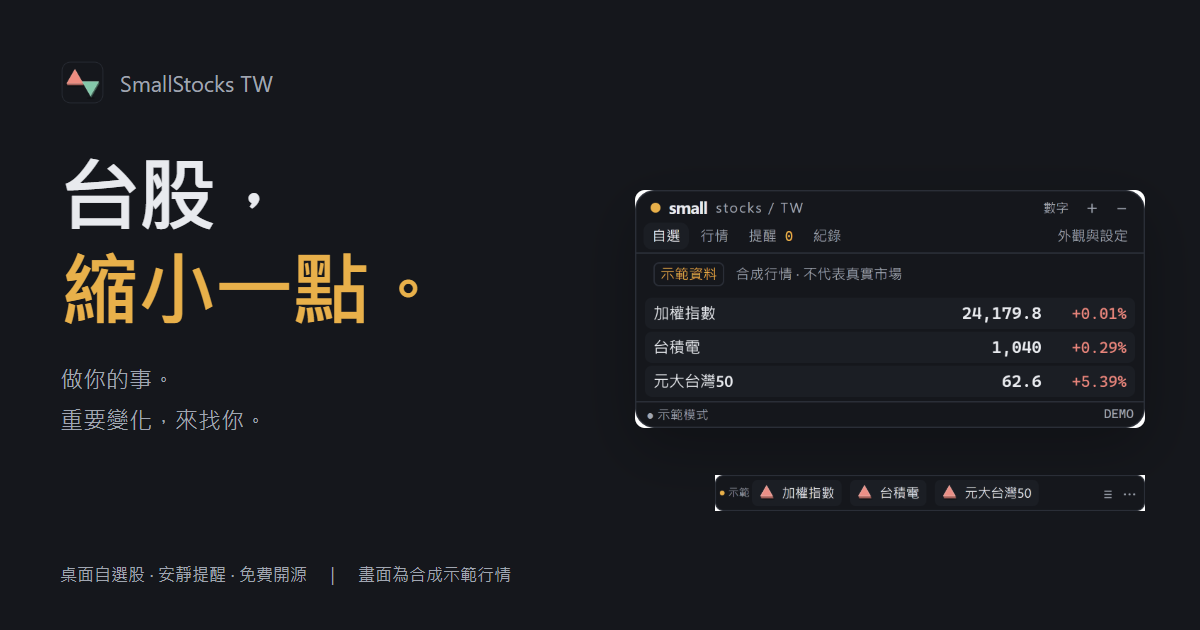
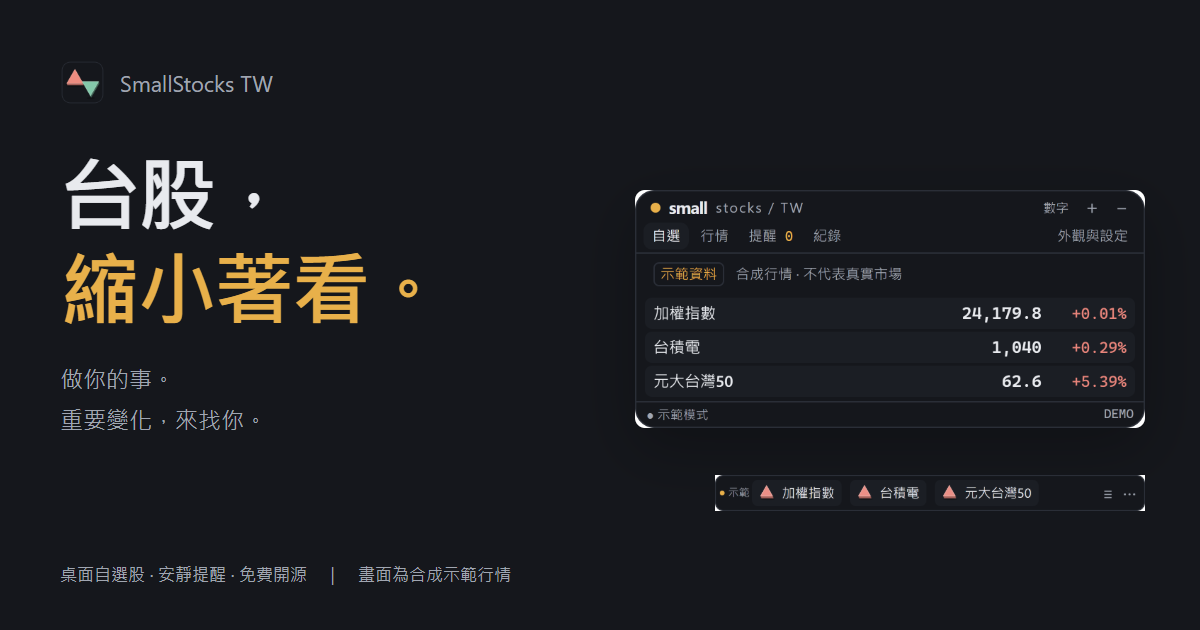
Keep the site in the public repo like Basesmall and SmalLoL; native Mac captures
- Site source, screenshot and check scripts live in this repo (site/).
  Deploy config stays in the private workspace repository.
- Tagline: 台股，縮小著看。
- Add the buy-me-a-coffee line (site FAQ and footer, README, FUNDING.yml).
- Replace the browser-rendered Mac previews with native window captures from
  an Intel Mac (demo data) and update captions and README wording.

Changed region(s): [[0.185, 0.3921, 0.3083, 0.5127]]

diff --git a/site/index.html b/site/index.html
@@ -4,14 +4,14 @@
     <meta charset="utf-8" />
     <meta name="viewport" content="width=device-width,initial-scale=1" />
     <meta name="theme-color" content="#15171c" />
-    <title>SmallStocks TW｜台股，縮小一點。</title>
+    <title>SmallStocks TW｜台股，縮小著看。</title>
     <meta
       name="description"
       content="讓幾檔自選股，安靜待在螢幕角落。SmallStocks TW 是免費開源的台股桌面小工具，提供數字、單行走勢、極簡棋子、終端機與文字外觀，以及自訂事件提醒和選配 MCP。"
     />
     <meta property="og:type" content="website" />
     <meta property="og:locale" content="zh_TW" />
-    <meta property="og:title" content="SmallStocks TW｜台股，縮小一點。" />
+    <meta property="og:title" content="SmallStocks TW｜台股，縮小著看。" />
     <meta
       property="og:description"
       content="做你的事，重要變化來找你。桌面自選股、安靜提醒，還有適合不同工作的低調外觀。"
@@ -69,7 +69,7 @@
           <p class="eyebrow">
             <span class="gold-dot"></span> small 系列的台股桌面小工具
           </p>
-          <h1 id="headline">台股，<br />縮小一點。</h1>
+          <h1 id="headline">台股，<br />縮小著看。</h1>
           <p class="lead">
             讓幾檔自選股，安靜待在螢幕角落。<br
               class="desktop-break"
@@ -214,8 +214,8 @@
           </p>
         </div>
         <p class="fine">
-          畫面為合成示範行情。Mac 外觀是 UI
-          預覽，尚無原生試用包或實機驗證。兩種外觀都不會執行系統指令或修改其他文件。
+          畫面為合成示範行情。Mac 畫面是 Intel Mac
+          上的原生視窗截圖，尚無 Mac 試用包，真實行情與長時間使用尚未驗證。兩種外觀都不會執行系統指令或修改其他文件。
         </p>
       </section>
 
@@ -485,8 +485,7 @@
           >
           <p class="fine">
             需要 WebView2；執行檔尚未簽章，Windows
-            或公司裝置管理可能攔截。尚無自動更新。Mac 目前只有差異化 UI
-            預覽，未開放原生下載。
+            或公司裝置管理可能攔截。尚無自動更新。Mac 尚無試用包，未開放下載。
           </p>
           <p class="fine">
             網站只介紹產品，不提供即時行情；不需要提供券商帳號。
@@ -538,6 +537,12 @@
               程式免費開源，不需帳號，也沒有分析追蹤。行情資料受各來源條件限制，不包含在程式授權內。網站不放分析工具或追蹤
               Cookie；為取得最新下載連結，會向 GitHub 查詢公開版本資訊。
             </p>
+            <p>
+              SmallStocks TW 免費，沒有廣告也沒有付費功能。如果它在上班時陪著你，歡迎<a
+                href="https://buymeacoffee.com/zaious"
+                >請我喝杯咖啡</a
+              >；贊助不會解鎖任何功能，每個人用到的都一樣。
+            </p>
           </details>
         </div>
       </section>
@@ -549,7 +554,7 @@
             >SmallStocks TW</span
           ></a
         >
-        <p>台股，縮小一點。</p>
+        <p>台股，縮小著看。</p>
         <p>
           由 <a href="https://zaious.dev/">Zaious</a> 與<a
             href="https://studio.chroniclecore.com"
@@ -571,6 +576,8 @@
           >
           ·
           <a href="https://github.com/Zaious/smallstocks-tw/issues">回報問題</a>
+          ·
+          <a href="https://buymeacoffee.com/zaious">請我喝杯咖啡</a>
         </p>
         <p class="fine">
           獨立開源專案，與證交所、櫃買中心、Yahoo

diff --git a/site/site.js b/site/site.js
@@ -79,10 +79,10 @@
     const mac = platform === "mac";
     const captions = {
       terminal: mac
-        ? "Mac 終端機／zsh 外觀預覽，尚未原生實測。"
+        ? "Mac 終端機／zsh 外觀，Intel Mac 原生視窗截圖（示範資料）。"
         : "Windows Terminal／PowerShell 外觀，等寬表格清楚對齊。",
       text: mac
-        ? "TextEdit 純文字外觀預覽，尚未原生實測。"
+        ? "TextEdit 純文字外觀，Intel Mac 原生視窗截圖（示範資料）。"
         : "Windows 記事本外觀，像一份隨時更新的文字報表。",
     };
     for (const kind of ["terminal", "text"]) {

diff --git a/README.md b/README.md
@@ -65,10 +65,10 @@ Small colour and small greyscale share the board-piece styling and single-row ch
 
 The Mac UI uses left-side traffic lights, a simple document title, Menlo-style text and a zsh prompt. Its plain-text view omits Windows tabs, the in-window menu bar and CRLF status strip:
 
-<img src="docs/media/mac-terminal-preview.png" width="420" alt="Mac-style terminal UI preview with synthetic data">
-<img src="docs/media/mac-textedit-preview.png" width="420" alt="Mac-style TextEdit UI preview with synthetic data">
+<img src="docs/media/mac-terminal.png" width="420" alt="Mac terminal appearance on an Intel Mac, synthetic data">
+<img src="docs/media/mac-textedit.png" width="420" alt="Mac TextEdit-style appearance on an Intel Mac, synthetic data">
 
-*Mac appearances shown above are browser previews of the platform-specific UI, not screenshots from a Mac build. A macOS package, native WebKit behaviour and global shortcut still require Mac validation.*
+*Mac appearances shown above are native window screenshots from an Intel Mac (macOS 26.2) running the demo mode with synthetic data. There is no macOS package yet; signing, real-market data, long-running use and the pressed-shortcut behaviour are not validated.*
 
 | Action | Windows | Mac UI |
 | --- | --- | --- |
@@ -154,6 +154,10 @@ For browser checks, run `npm run dev`, then `node scripts/minimal-check.mjs` or 
 To package a portable build, run `./scripts/package-portable.ps1`. To regenerate the icon, see [the editable brand assets](assets/brand/README.md).
 
 The [Traditional Chinese product website source](site/README.md) lives in `site/`. It reuses the small-series site design and app screenshots, with interactive display/platform previews and release-aware download links. Build it with `node site/build.mjs` and deploy `site/dist` to a static host. Its current Sites review deployment is private; it is not a publicly announced custom-domain website.
+
+## Support
+
+SmallStocks TW is free and stays free: no ads, no paid features, and no donation links inside the app. If it keeps you company at work, you can [buy me a coffee](https://buymeacoffee.com/zaious); it unlocks nothing, every feature is the same for everyone.
 
 ## Licence
 
